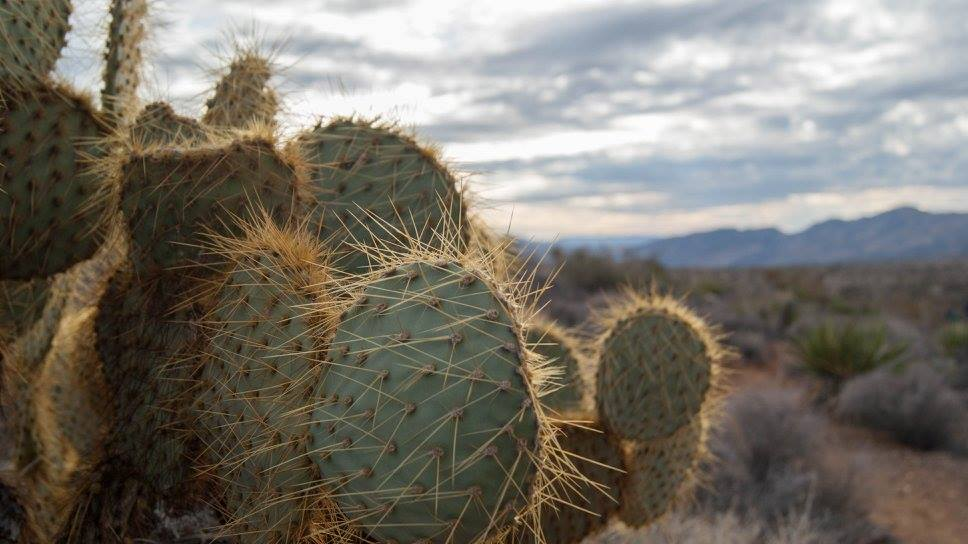
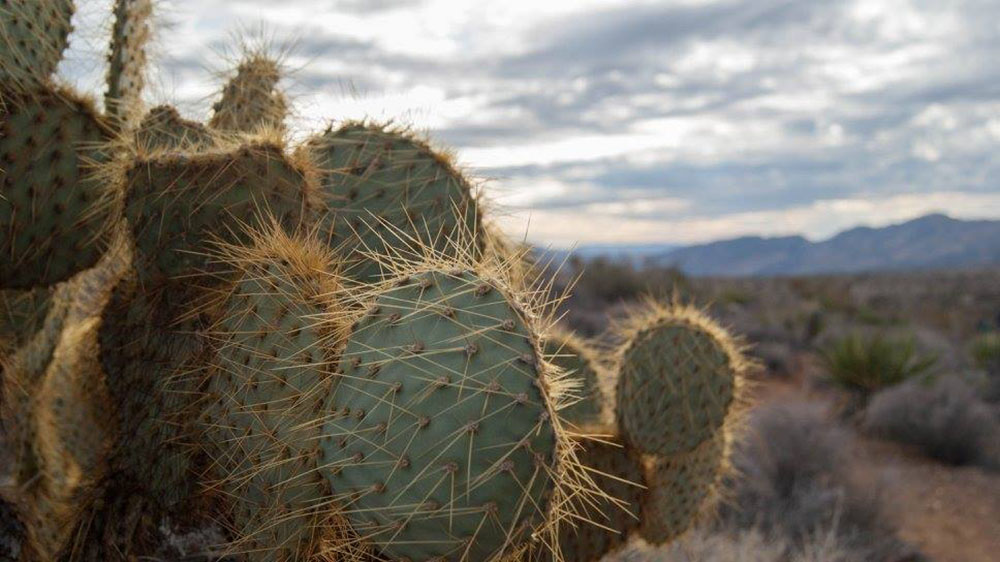
added quote

diff --git a/trails.html b/trails.html
@@ -6,8 +6,9 @@
 <title>Trails of California</title>
 </head>
 
-<body style="background-image:url(images/trails.jpg)">
+<body class="trailsbg">
 <!---this is my boyfriend's (Darrick Kraft) picture taken from facebook-->
+
 
 <!--nav bar-->
 <nav>
@@ -40,6 +41,8 @@
 <div class="trailinfo">
 <h1>The California Riding & Hiking Trail</h1>
 <p>This 36 mile trip takes hikers through Joshua Tree National Park in Southern California's Desert. This trail is not for the faint of heart. It's a long trek that's one way and requires shuttles and water caches. Although it passes through a popular national park, the trail itself is very desolate. During our 3 day trip we only saw about 4 other groups. The natural water (if you happen to dee any) is preserved for the natural wildlife and flora. Which means before you start your trek you will have to place water caches along the trail. There are backcountry boards that are reachable by car, so planting your trips water isn't too hard to do it does add an extra day to the trip! The desert is hot and you will not be able to recieve much help out here so it's important to do your research before hand and plan plan plan! Not a trail for beginners, however if you're with a group of poeple who know the ropes of backpacking and are in good physical shape you should be fine! There are rattlesnakes and other nasty creautures on this trail so be observant of where you step. With that said, this trail is absolutely breathtaking. I shows off the still of the desert and has many beuatiful plants that look so lively among the heat and sand. The rock formations are also something that draws toruist to this area, and of course the Joshua Trees! (Which aren't actually trees and belong to the Yucca family) But these things are amazing, they thrive in this deathly environment and can live to be hundreds of years old. If you backpack to truly 'get away' then this trail is perfect. </p>
+</div>
+
 </div>
 
 </div>

diff --git a/css/styles.css b/css/styles.css
@@ -26,11 +26,6 @@ h2 {
 	font-weight:300;
 }
 
-/*this is styling for the img header*/
-
-.header {
-	margin: 10px;
-}
 
 /*this is styling for the nav bar*/
 
@@ -41,9 +36,6 @@ nav {
 	margin-top: -20px;
 	margin-left: -20px;
 	margin-bottom: 5px;
-
-
-
 }
 
 nav ul {
@@ -67,16 +59,8 @@ a:visited {
 }
 
 a:hover {
-	color:#DD9728;
+	color: #43736F;
 }
-
-/*this is styling for the banner image on the front page*/
-
-.banner {
-	width:100%;
-	margin: none;
-}
-
 
 
 /*this is styling for the links on the front page*/
@@ -93,6 +77,14 @@ a:hover {
 .recipes {
 	width:30%;
 	float:left;
+}
+
+/*Styling for Home page*/
+
+
+.quoteimg {
+	align-content: center;
+	margin-top: 100px;
 }
 
 /*Styling for Trails page*/
@@ -147,9 +139,27 @@ a:hover {
 	
 /*Styling for background images*/
 
-body {
-	background-repeat: no-repeat;
-	background-attachment: fixed;
-	width: auto;
+.trailsbg {
+	background-image: url("../images/trails.jpg");
+	background-repeat:no-repeat;
+	background-size:cover;
 }
-	
+
+.recipesbg {
+	background-image: url("../images/recipes.jpg");
+	background-repeat:no-repeat;
+	background-size:cover;
+}
+
+.gearbg {
+	background-image: url("../images/gear.jpg");
+	background-repeat:no-repeat;
+	background-size:cover;
+}
+
+.homebg {
+	background-image: url("../images/home.jpg");
+	background-repeat:no-repeat;
+	background-size:cover;
+	height:auto;
+}

diff --git a/index.html b/index.html
@@ -7,8 +7,9 @@
 </head>
 
 
-<body style="background-image:url(images/home.jpg)">
+<body class="homebg">
 <!---this is my own image-->
+
 <!--Home Page HTML-->
 
 <nav>
@@ -26,10 +27,9 @@
      </ul>
 </nav>
 
-<!-- this div is for the homepage banner-->
+<!-- this div is for the homepage info-->
 
-
-
+<img src="images/quote.png" alt="quote" class="quoteimg">
 
 
 </body>

diff --git a/recipes.html b/recipes.html
@@ -6,9 +6,7 @@
 <title>Recipes for on the Trail</title>
 </head>
 
-<body>
-
-<body style="background-image:url(images/recipes.jpg)" alt="Joshua Tree Park" class="backgroundimage">
+<body class="recipesbg">
 <!---this is my own image-->
 <!--This is the navigation bar-->
 <nav>

diff --git a/gear.html b/gear.html
@@ -7,7 +7,7 @@
 </head>
 <!--styled in html because i ahve a different image on every page as background-->
 
-<body style="background-image:url(images/gearbg.jpg)">
+<body class="gearbg">
 <!---this is my own image-->
 <nav>
 
